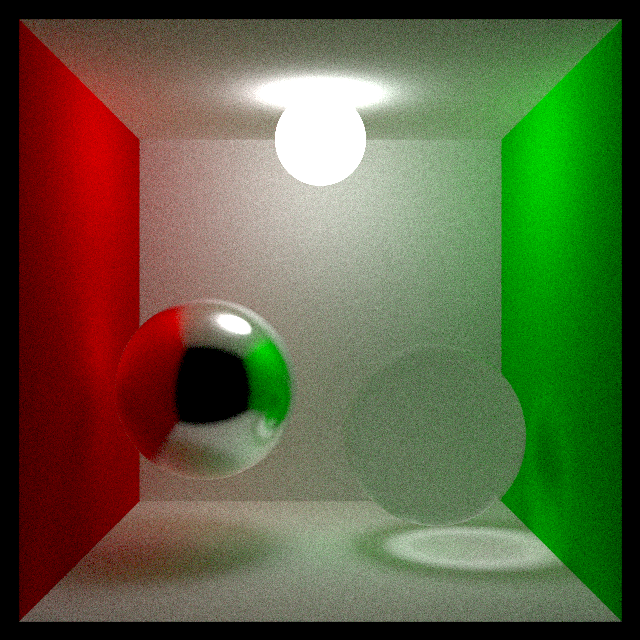
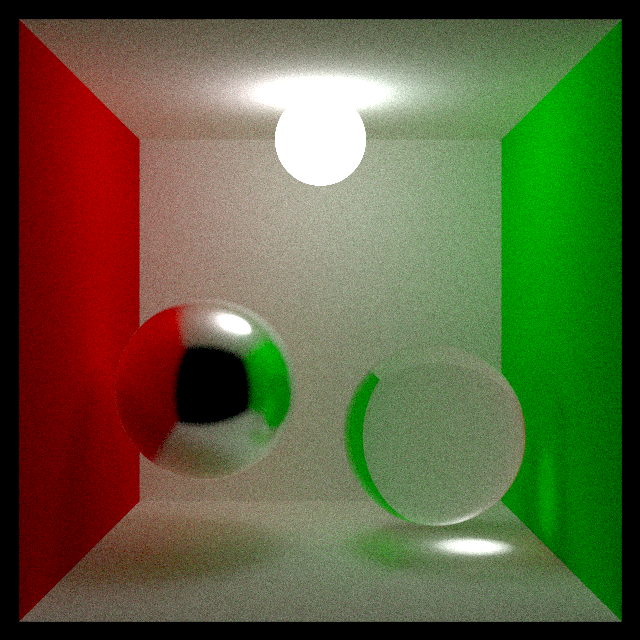
update cornell_box

diff --git a/examples/cornell_box.rs b/examples/cornell_box.rs
@@ -70,7 +70,7 @@ pub fn make_cornell_box() -> Vec<(BasicShape, BasicMaterial)> {
         ),
         (
             BasicShape::Sphere(Sphere::new(Vec3::new([0.5, -0.5, 0.0]), 0.4)),
-            BasicMaterial::Dielectric(Dielectric::new(1.1)),
+            BasicMaterial::Dielectric(Dielectric::new(1.5)),
             // BasicMaterial::ConstantMedium(silver::materials::constant_medium::ConstantMedium::new(4.0, Vec3::new([0.0, 0.0, 1.0]))),
         ),
         (
